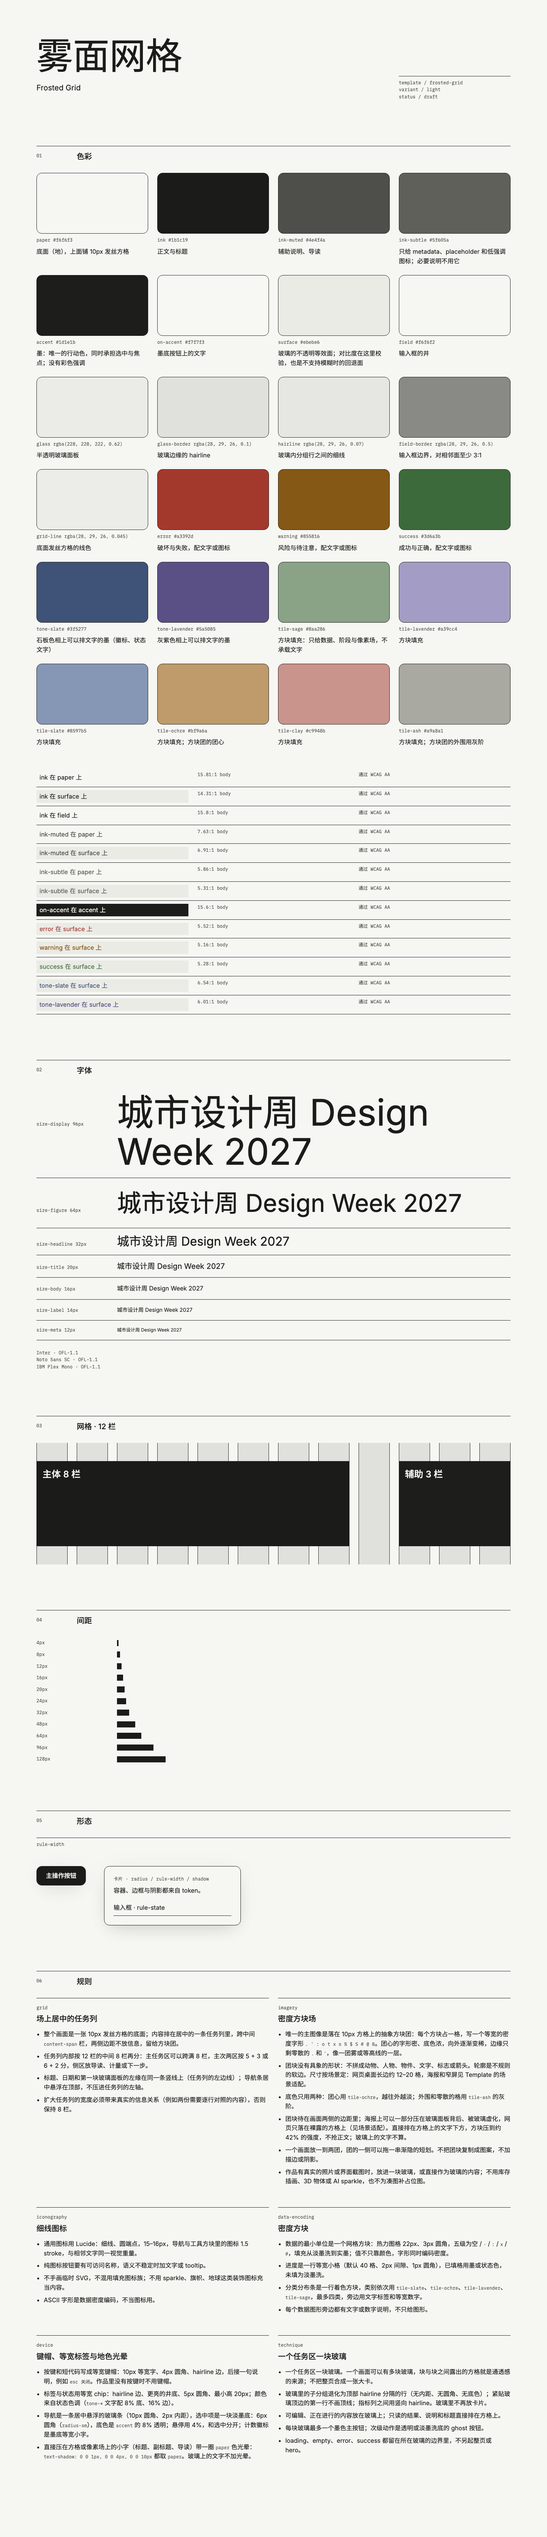
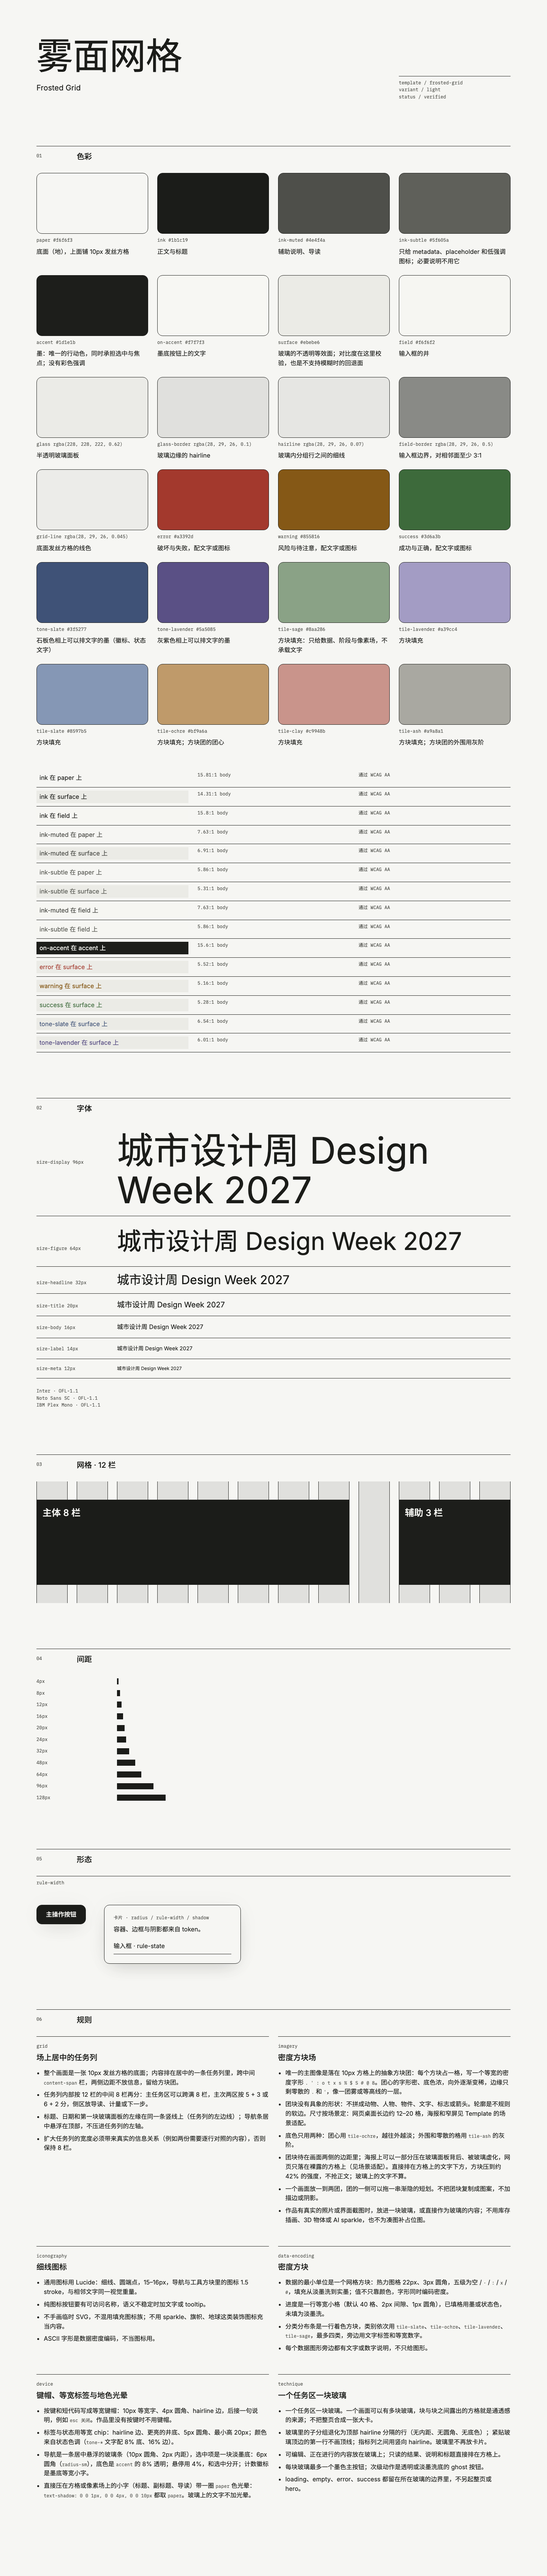
feat(musekit): mark frosted-grid verified after visual acceptance
Two standard-brief runs of the poster and home page passed the full review
tier, and the greyscale comparison with neo-swiss separates at a glance.
The library now holds seven verified templates.

diff --git a/README.md b/README.md
@@ -6,7 +6,7 @@ The official plugin marketplace maintained by the Agent Plugkit organization.
 
 Musekit 把「风格」和「场景制作」分成两层：
 
-- **风格库**由 `musepool` 管理：Seed 是按设计元素分类的可复用单元（配色、字体、网格、间距、形态、手法等），Template 是由 Seed 组合而成的风格（目前有新瑞士国际主义、日式留白、编辑衬线、新粗野主义、单色编辑印刷、报纸大版 6 种，均已验收为 verified），写明精神、文法、各场景适配与常见误用；17 个真实作品的拆解记录作为范例（14 个来自 0.x 的 seed，3 个随报纸大版新增）。musepool 按场景检索或组合风格，并解析成一份 `style.md`。
+- **风格库**由 `musepool` 管理：Seed 是按设计元素分类的可复用单元（配色、字体、网格、间距、形态、手法等），Template 是由 Seed 组合而成的风格（目前有新瑞士国际主义、日式留白、编辑衬线、新粗野主义、单色编辑印刷、报纸大版、雾面网格 7 种，均已验收为 verified），写明精神、文法、各场景适配与常见误用；17 个真实作品的拆解记录作为范例（14 个来自 0.x 的 seed，3 个随报纸大版新增）。musepool 按场景检索或组合风格，并解析成一份 `style.md`。
 - **场景工作流**负责制作：先写场景 Brief，再从 musepool 取 `style.md`，选结构原型、用风格文法排版，制作后按共享的评审循环检查。用户的品牌规范或既有设计系统会被整理成同形的风格。
 
 | Skill | 用途 |

diff --git a/plugins/musekit/skills/musepool/library/templates/frosted-grid.md b/plugins/musekit/skills/musepool/library/templates/frosted-grid.md
@@ -4,7 +4,7 @@ kind: template
 name: 雾面网格
 name_en: Frosted Grid
 family: frosted-grid
-status: draft
+status: verified
 source: library
 scenes: [graphic, web]
 mood: [安静, 可信, 克制, 任务导向, 仪器感, 网格]
